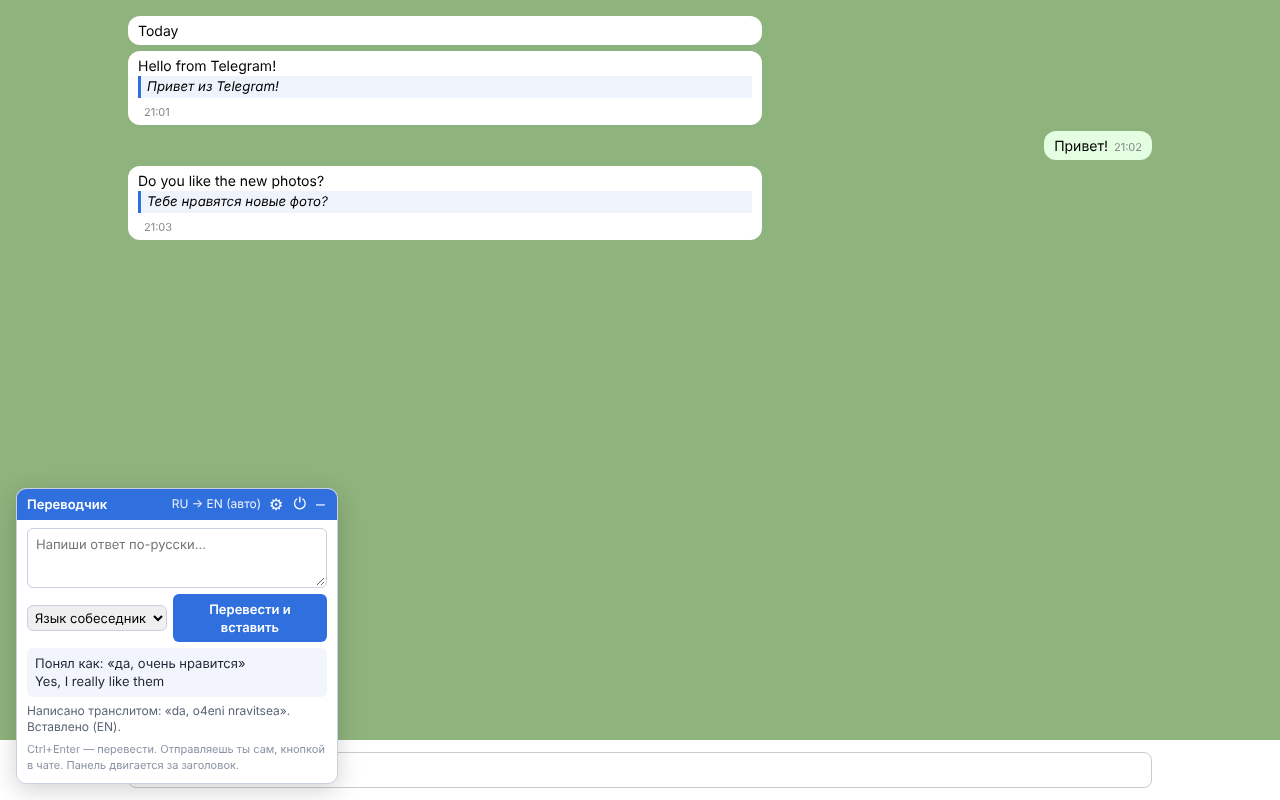
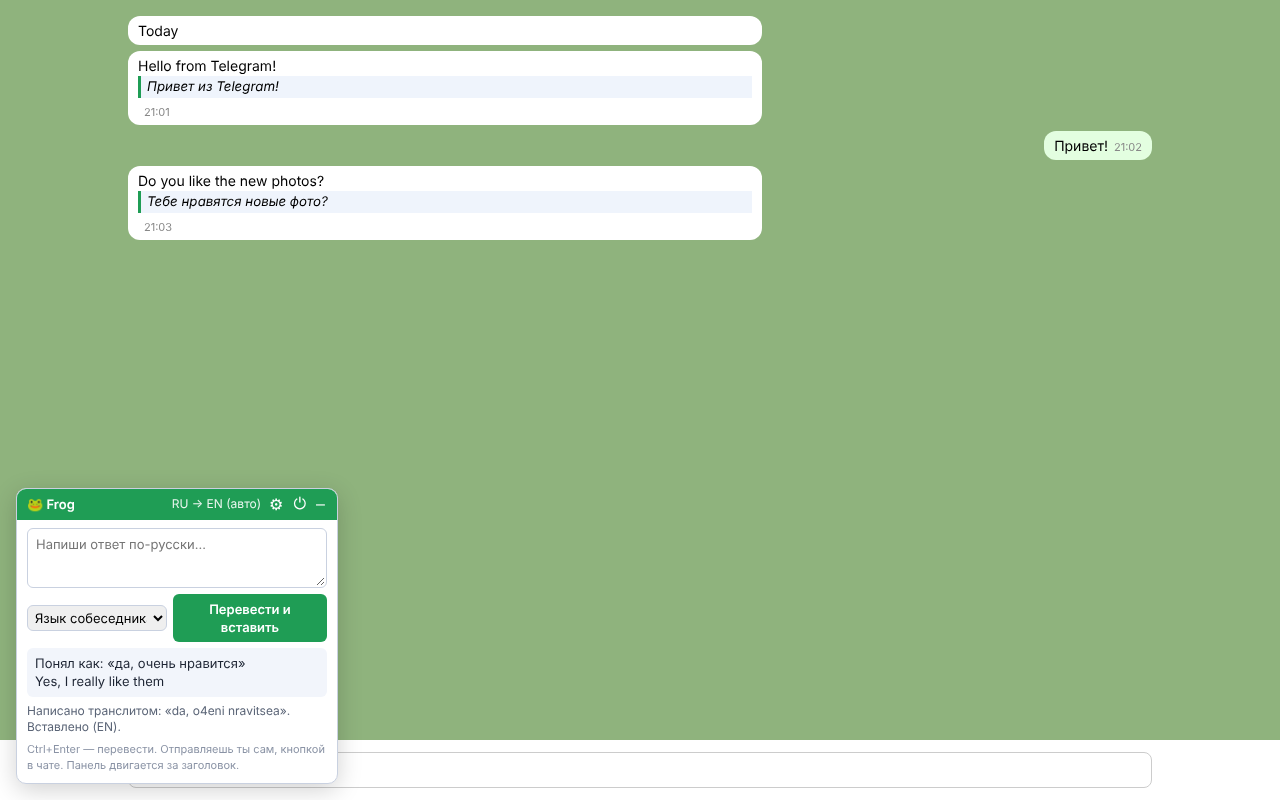
Frog Chat Translator: новое название, иконка-лягушка, зелёный цвет, v0.2.3
Claude-Session: https://claude.ai/code/session_01JP22ZGY8hE7oBmEBDa9R95

Changed region(s): [[0.0, 0.5938, 0.2812, 0.6562], [0.125, 0.7188, 0.2812, 0.8125]]

diff --git a/extension/content/ui.js b/extension/content/ui.js
@@ -14,7 +14,7 @@
       font: 13px/1.4 system-ui, -apple-system, "Segoe UI", Roboto, sans-serif; color: #1d2433;
       background: #fff; border: 1px solid #c9d1e0; border-radius: 10px;
       box-shadow: 0 6px 24px rgba(0,0,0,.18); overflow: hidden; }
-    .head { display: flex; align-items: center; gap: 6px; padding: 6px 10px; background: #2f6fde; color: #fff;
+    .head { display: flex; align-items: center; gap: 6px; padding: 6px 10px; background: #1f9d55; color: #fff;
       cursor: move; user-select: none; }
     .title { font-weight: 600; flex: 1; }
     .lang { font-size: 12px; opacity: .9; }
@@ -23,10 +23,10 @@
     .collapsed .body { display: none; }
     textarea { width: 100%; box-sizing: border-box; min-height: 60px; resize: vertical; padding: 6px 8px;
       border: 1px solid #c9d1e0; border-radius: 6px; font: inherit; color: inherit; }
-    textarea:focus { outline: 2px solid #2f6fde55; border-color: #2f6fde; }
+    textarea:focus { outline: 2px solid #1f9d5555; border-color: #1f9d55; }
     .row { display: flex; gap: 6px; align-items: center; }
     select { font: inherit; padding: 3px; border: 1px solid #c9d1e0; border-radius: 6px; }
-    button.main { flex: 1; padding: 6px 10px; border: 0; border-radius: 6px; background: #2f6fde; color: #fff;
+    button.main { flex: 1; padding: 6px 10px; border: 0; border-radius: 6px; background: #1f9d55; color: #fff;
       font: inherit; font-weight: 600; cursor: pointer; }
     button.main:disabled { opacity: .6; cursor: default; }
     .preview { background: #f2f5fb; border-radius: 6px; padding: 6px 8px; white-space: pre-wrap; word-break: break-word; }
@@ -44,7 +44,7 @@
       <style>${STYLE}</style>
       <div class="box">
         <div class="head">
-          <span class="title">Переводчик</span>
+          <span class="title">🐸 Frog</span>
           <span class="lang" data-el="langInfo"></span>
           <button class="icon" data-el="pick" title="Показать, где сообщения собеседника" hidden>🎯</button>
           <button class="icon" data-el="settings" title="Настройки">⚙</button>

diff --git a/extension/options/options.html b/extension/options/options.html
@@ -2,11 +2,11 @@
 <html lang="ru">
 <head>
   <meta charset="utf-8">
-  <title>Chat Translator — настройки</title>
+  <title>Frog Chat Translator — настройки</title>
   <link rel="stylesheet" href="../popup/common.css">
 </head>
 <body class="page">
-  <h1>Chat Translator — настройки</h1>
+  <h1>Frog Chat Translator — настройки</h1>
 
   <section>
     <h2>Перевод</h2>
@@ -28,7 +28,7 @@
     <h2>Сервис перевода</h2>
     <label>Сервис
       <select id="provider">
-        <option value="pro">Chat Translator Pro (без ключа, по подписке)</option>
+        <option value="pro">Frog Pro (без ключа, по подписке)</option>
         <option value="deepl">DeepL (свой ключ, бесплатно)</option>
         <option value="google">Google Cloud Translation</option>
         <option value="claude">Claude (Anthropic)</option>

diff --git a/extension/popup/common.css b/extension/popup/common.css
@@ -10,7 +10,7 @@ label.row, .row { display: flex; gap: 8px; align-items: center; flex-wrap: wrap;
 select, input[type="text"], input[type="password"] { display: block; width: 100%; box-sizing: border-box; margin-top: 4px;
   padding: 6px 8px; border: 1px solid #c9d1e0; border-radius: 6px; font: inherit; }
 button { padding: 6px 12px; border: 1px solid #c9d1e0; border-radius: 6px; background: #f4f6fa; font: inherit; cursor: pointer; }
-button.primary { background: #2f6fde; border-color: #2f6fde; color: #fff; font-weight: 600; }
+button.primary { background: #1f9d55; border-color: #1f9d55; color: #fff; font-weight: 600; }
 .hint { font-size: 12px; color: #6b7487; margin: 4px 0 8px; }
 .ok { color: #1e8449; }
 .site { border-top: 1px solid #dde3ee; margin-top: 10px; padding-top: 6px; }

diff --git a/extension/popup/popup.html b/extension/popup/popup.html
@@ -5,7 +5,7 @@
   <link rel="stylesheet" href="common.css">
 </head>
 <body class="popup">
-  <h2>Chat Translator</h2>
+  <h2>🐸 Frog Chat Translator</h2>
   <label class="row"><input type="checkbox" id="enabled"> Переводить чат</label>
   <label>Мой ответ на
     <select id="replyLang" data-langs data-auto></select>

diff --git a/extension/content/ui.css b/extension/content/ui.css
@@ -3,7 +3,7 @@
   display: block;
   margin: 2px 0 4px;
   padding: 2px 6px;
-  border-left: 3px solid #2f6fde;
+  border-left: 3px solid #1f9d55;
   background: rgba(47, 111, 222, 0.08);
   color: inherit;
   font-style: italic;

diff --git a/store/listing.md b/store/listing.md
@@ -1,14 +1,14 @@
 # Тексты для страницы в Chrome Web Store
 
 ## Название
-Chat Translator — переводчик чатов
+Frog Chat Translator — переводчик чатов
 
 ## Краткое описание (до 132 символов)
 RU: Перевод сообщений в WhatsApp, Telegram, Discord и любом веб-чате прямо под оригиналом и ответ на языке собеседника.
 EN: Translate messages in WhatsApp, Telegram, Discord or any web chat right under the original and reply in your contact's language.
 
 ## Полное описание (RU)
-Переписываетесь с людьми, которые говорят на другом языке? Chat Translator переводит каждое входящее сообщение прямо под оригиналом, а ответ можно написать по-русски — расширение переведёт его и вставит в поле чата. Отправку вы нажимаете сами.
+Переписываетесь с людьми, которые говорят на другом языке? Frog Chat Translator переводит каждое входящее сообщение прямо под оригиналом, а ответ можно написать по-русски — расширение переведёт его и вставит в поле чата. Отправку вы нажимаете сами.
 
 Что умеет:
 • Перевод входящих сообщений под оригиналом (свои сообщения и эмодзи не трогает)
@@ -23,7 +23,7 @@ EN: Translate messages in WhatsApp, Telegram, Discord or any web chat right unde
 Готовая поддержка: WhatsApp Web, Telegram Web, Discord. На любом другом сайте с чатом (Instagram, Messenger и т.д.) перевод включается одной кнопкой: покажите кликом, где сообщения собеседника, и расширение запомнит.
 
 ## Full description (EN)
-Chatting with people who speak another language? Chat Translator translates every incoming message right under the original, and lets you write your reply in your own language — it translates it and puts it into the chat box. You press Send yourself.
+Chatting with people who speak another language? Frog Chat Translator translates every incoming message right under the original, and lets you write your reply in your own language — it translates it and puts it into the chat box. You press Send yourself.
 
 Features:
 • Incoming messages translated under the original (your own messages and emoji are skipped)

diff --git a/README.md b/README.md
@@ -1,4 +1,4 @@
-# Chat Translator
+# Frog Chat Translator
 
 Расширение для Chrome (Manifest V3). Переводит входящие сообщения веб-чата на русский прямо под оригиналом и помогает ответить: пишешь по-русски, перевод вставляется в поле чата. Кнопку «Отправить» на сайте человек нажимает сам.
 
